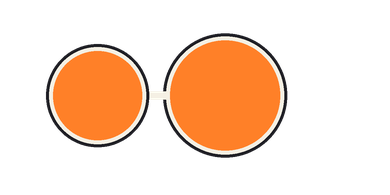
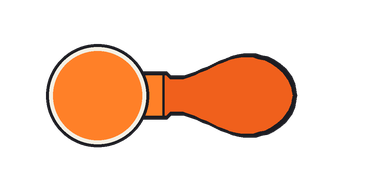
プレビューの連打のはみ出しを直して、シンプルの風船を作り直した
- UI/SkinPreview.cs：連打の胴の長さを音符の大きさに比例させた。
  今までは 160px 固定だったので、設定パネルの幅(638px)だと音符が66pxなのに胴が54pxしかなく、
  頭と尻尾が12pxぶん重なって、はみ出したように見えていた
- tools/skin-gen/play.py：風船(Notes/Normal/*/10.png)を A-Style の形に作り直した。
  A-Style の 0/10.png を1pxずつ測った輪郭(頭の丸 → 首の帯 → くびれ → ふくらみ → 丸い先)を
  そのまま使い、顔(目・口)は描かない。高さは本家と±1px以内

Claude-Session: https://claude.ai/code/session_01DAU9tpBiF8CGAJXqk8DqYG

Changed region(s): [[0.3692, 0.1538, 0.7692, 0.8308]]

diff --git a/tools/skin-gen/play.py b/tools/skin-gen/play.py
@@ -14,6 +14,36 @@ def note_disc(c, cx, cy, r, color, dark):
     c.circle(cx, cy, r - 3, fill=RIM)
     c.circle(cx, cy, r - 7, fill=color)
 
+# 風船の形。A-Style の Notes/Normal/0/10.png を 1px ずつ測った「まんなかから上下の高さ」
+#   頭の丸(半径52) → 首の帯(平ら、高さ24) → くびれ(高さ20) → ふくらみ(最大42) → 先は丸い
+#   x=140 側は頭の丸のうしろに隠れる。顔(目・口)は描かない
+BALLOON_X = [140, 167, 171, 184, 190, 196, 202, 208, 214, 220, 226, 232, 238, 244,
+             256, 262, 268, 274, 280, 286, 292, 295, 297]
+BALLOON_H = [ 24,  24,  20,  20,  22,  24,  27,  29,  32,  35,  37,39.5,  41,  42,
+              42,  40,  39,  36,  32,  27,  19,  12,   0]
+BALLOON_BODY = (240, 96, 28)   # ふくらみ。頭(BALLOON)より少し濃いオレンジ
+BALLOON_NECK = (146, 164.5)    # 首の帯の左右。右はしに細い黒を入れてふくらみと分ける
+
+def balloon_body(c, cy, outline=4):
+    """頭の丸のうしろから右へ伸びる風船。顔(目・口)は描かない"""
+    xs = np.arange(BALLOON_X[0], BALLOON_X[-1] + 0.5, 0.5)
+    hs = np.interp(xs, BALLOON_X, BALLOON_H)
+
+    def shape(shrink, fill):
+        # 内側は上下に shrink 縮めつつ、先っぽも shrink 手前で閉じる(先だけ輪郭が細くならないように)
+        x0, x1 = BALLOON_X[0], BALLOON_X[-1]
+        scale = (x1 - shrink - x0) / (x1 - x0)
+        pts = [(x0 + (x - x0) * scale, max(0.0, h - shrink)) for x, h in zip(xs, hs)]
+        c.poly([(x, cy - h) for x, h in pts] + [(x, cy + h) for x, h in reversed(pts)], fill=fill)
+
+    shape(0, INK)
+    shape(outline, BALLOON_BODY)
+    # 首の帯は頭と同じ明るいオレンジ
+    n0, n1 = BALLOON_NECK
+    half = BALLOON_H[0] - outline
+    c.rect(n0, cy - half, n1 - 2, cy + half, fill=BALLOON)
+    c.rect(n1 - 2, cy - BALLOON_H[0], n1, cy + BALLOON_H[0], fill=INK)
+
 def notes():
     for folder in ('0', '1'):
         d = E + 'Notes/Normal/' + folder + '/'
@@ -33,10 +63,9 @@ def notes():
             c.d.pieslice([c.s(-r + 7), c.s(NC[1] - r + 7), c.s(r - 7), c.s(NC[1] + r - 7)], -90, 90, fill=ROLL)
             c.rect(-2, NC[1] - r + 7, 1, NC[1] + r - 7, fill=ROLL)
             c.save(d + f'{end}.png')
-        # 風船：頭の丸＋右に風船
+        # 風船：A-Style と同じ形(首でくびれて、ふくらんで、先は丸い)。顔は描かない
         c = Canvas(390, 195)
-        c.circle(225, NC[1], 62, fill=INK); c.circle(225, NC[1], 59, fill=RIM); c.circle(225, NC[1], 55, fill=BALLOON)
-        c.rect(140, NC[1] - 4, 168, NC[1] + 4, fill=RIM)
+        balloon_body(c, NC[1])
         note_disc(c, *NC, 51.5, BALLOON, (190, 80, 20))
         c.save(d + '10.png')
 

diff --git a/TaikoSim/UI/SkinPreview.cs b/TaikoSim/UI/SkinPreview.cs
@@ -76,9 +76,12 @@ namespace TaikoSim.UI
         public bool Draw(Rectangle box)
         {
             if (textures.Count == 0) return false;
-            const float note = 195f, gap = 14f, rollBody = 160f;
-            float total = note * 5 + (note + rollBody) + note * 2 + gap * 7; // 判定枠・ドン・カッ・大ドン・大カッ・連打・風船
-            float s = Math.Min(0.5f, (box.Width - 20f) / total);
+            // 連打の胴は音符の大きさに合わせて伸ばす(固定の長さだと、小さく描いたときに頭と尻尾が重なってはみ出して見える)
+            const float note = 195f, gap = 14f;
+            const float rollBody = note * 1.2f;
+            // 並べるもの7つ：判定枠・ドン・カッ・大ドン・大カッ・連打(頭+胴)・風船(390幅=音符2つ分)。すき間は6か所
+            float total = note * 5 + (note + rollBody) + note * 2 + gap * 6;
+            float s = Math.Min(0.5f, (box.Width - 24f) / total);
             float size = note * s;
             float x = box.X + 10f, y = box.Y + (box.Height - size) / 2f;
 
